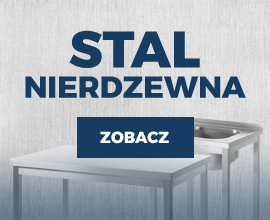
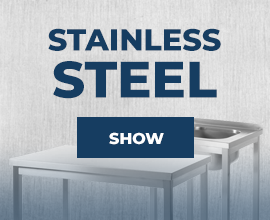
Update

Changed region(s): [[0.0889, 0.1091, 0.9185, 0.4636], [0.3556, 0.5727, 0.6222, 0.6545]]

diff --git a/index.html b/index.html
@@ -1635,20 +1635,20 @@
                     <div class="m-n2 m-sm-n3 m-md-n2 m-lg-n3">
                         <div class="row g-0 row-cols-1 row-cols-md-2">
                             <div class="col">
-                                <div class="p-2 p-sm-3 p-md-2 p-lg-3 h-100"><img class="img-fluid w-100 h-100" src="assets/img/content/tile-pizza.png?h=90a4f51acf1815b17c0d120ead8a2755"></div>
+                                <div class="p-2 p-sm-3 p-md-2 p-lg-3 h-100"><img class="img-fluid w-100 h-100" src="assets/img/content/tile-pizza.png?h=d4843d1c5722237b7c42e8d8c0481679"></div>
                             </div>
                             <div class="col d-flex">
                                 <div class="row g-0 row-cols-1 flex-column justify-content-between w-100">
                                     <div class="col">
-                                        <div class="p-2 p-sm-3 p-md-2 p-lg-3"><img class="img-fluid w-100" src="assets/img/content/tile-zmywarki.png?h=41a4a00e93087e568a8fca8042e1ffbf"></div>
+                                        <div class="p-2 p-sm-3 p-md-2 p-lg-3"><img class="img-fluid w-100" src="assets/img/content/tile-zmywarki.png?h=fc9e8b26258cfe3dd44db2cc3781bde1"></div>
                                     </div>
                                     <div class="col">
                                         <div class="row g-0 row-cols-2">
                                             <div class="col">
-                                                <div class="p-2 p-sm-3 p-md-2 p-lg-3"><img class="img-fluid w-100" src="assets/img/content/tile-stal.png?h=bf2aae4ff95df44731939ef10240f06f"></div>
+                                                <div class="p-2 p-sm-3 p-md-2 p-lg-3"><img class="img-fluid w-100" src="assets/img/content/tile-stal.png?h=7baac5035faec1717ffd8580e73e7fc4"></div>
                                             </div>
                                             <div class="col">
-                                                <div class="p-2 p-sm-3 p-md-2 p-lg-3"><img class="img-fluid w-100" src="assets/img/content/tile-piece.png?h=8e03237269710fc0b6f2a39598542d8e"></div>
+                                                <div class="p-2 p-sm-3 p-md-2 p-lg-3"><img class="img-fluid w-100" src="assets/img/content/tile-piece.png?h=d9cd6dcedcb607e5420f28716bd18a61"></div>
                                             </div>
                                         </div>
                                     </div>
